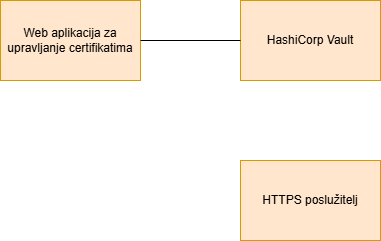
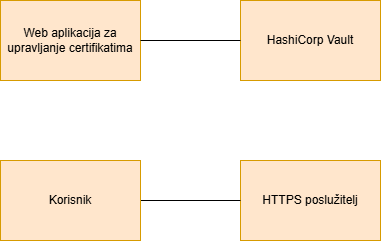
Update latex

Changed region(s): [[0.0, 0.639, 0.6352, 1.0]]

diff --git a/docs/Rad.tex b/docs/Rad.tex
@@ -366,11 +366,14 @@ U nastavku je prikazana arhitektura sustava za upravljanje digitalnim certifikat
   \caption{Prikaz arhitekture sustava za upravljanje digitalnim certifikatima}
 \end{figure}
 
-Sustav se sastoji od 3 dijela:
+Sustav se sastoji od 4 dijela:
 \begin{itemize}
-  \item \textbf{Web aplikacija za upravljanje certifikatima}
-  \item \textbf{HashiCorp Vault}
-  \item \textbf{HTTPS poslužitelj}
+  \item \textbf{Web aplikacija za upravljanje certifikatima} - Web aplikacija komunicira s HashiCorp Vault backend-om te omogućuje administratoru upravljanje digitalnim certifikatima.
+  \item \textbf{HashiCorp Vault} - HashiCorp Vault omogućuje pokretanje vlastitog certifikacijskog tijela, 
+  poslužuje REST API za upravljanje certifikatima i sigurno ih pohranjuje.
+  \item \textbf{HTTPS poslužitelj} - HTTPS poslužitelj poslužuje jednostavnu web stranicu, a cilj mu je prikazati način postavljanja 
+  HTTPS poslužitelja.
+  \item \textbf{Korisnik} - Korisnik komunicira s HTTPS poslužiteljem i provjerava valjanost digitalnog certifikata.
 \end{itemize}
 
 \chapter{Zaključak}
